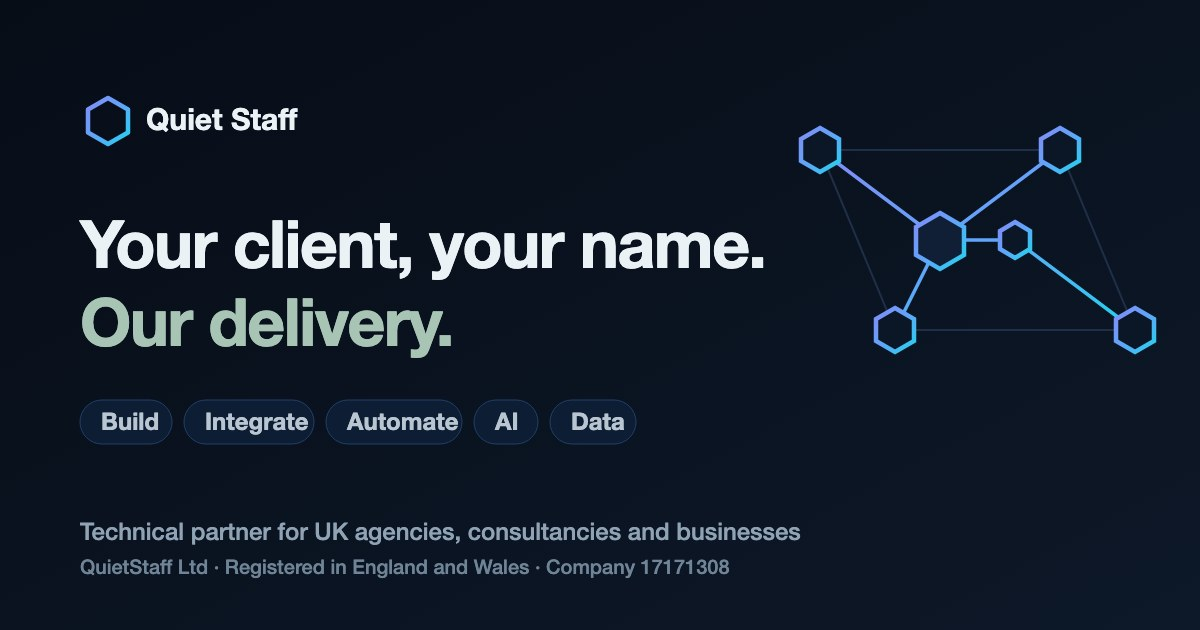
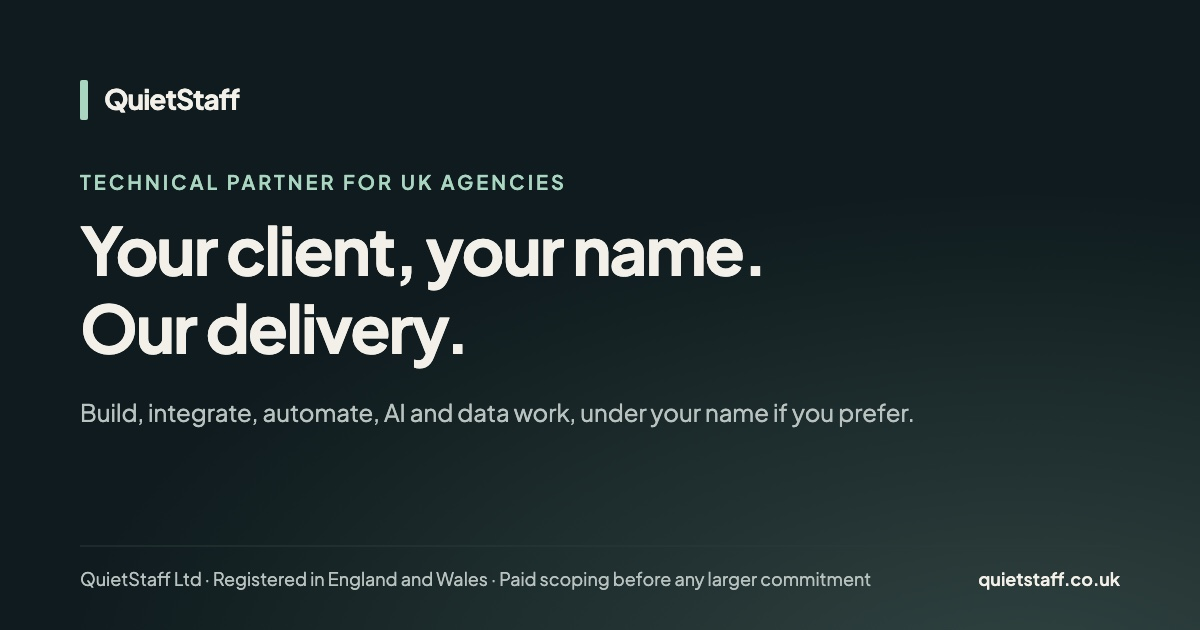
Partners: restyle, index the page, add #refer (M5MB-216)
Page-only nav kept with a QuietStaff home link; hero eyebrow leads with the UK
registration; Meet Mohan block uses the approved Founder & CEO form; India line, honesty
line and the legal block are unchanged. Adds the #refer paragraph (referral fee agreed in
writing), removes noindex, new title/description/JSON-LD Service and OG card.

diff --git a/partners/delivery/index.html b/partners/delivery/index.html
@@ -1,11 +1,11 @@
-<!doctype html><html lang="en-GB" data-theme="dark"><head><meta charset="utf-8"><meta name="viewport" content="width=device-width,initial-scale=1"><meta name="color-scheme" content="light dark"><title>Technical partner for UK agencies and consultancies | Quiet Staff</title><meta name="description" content="Build, integrate, automate, AI and data work on demand for UK agencies, consultancies and businesses, under your name if you prefer. QuietStaff Ltd, registered in England and Wales. Paid scoping first."><link rel="canonical" href="https://quietstaff.co.uk/partners/delivery/"><meta property="og:type" content="website"><meta property="og:title" content="Technical partner for UK agencies and consultancies | Quiet Staff"><meta property="og:description" content="Build, integrate, automate, AI and data work on demand for UK agencies, consultancies and businesses, under your name if you prefer. Paid scoping first."><meta property="og:url" content="https://quietstaff.co.uk/partners/delivery/"><meta property="og:image" content="https://quietstaff.co.uk/assets/images/quietstaff-partners-social.jpg"><meta property="og:image:width" content="1200"><meta property="og:image:height" content="630"><meta property="og:image:alt" content="Quiet Staff — Your client, your name. Our delivery. Technical partner for UK agencies, consultancies and businesses."><meta name="twitter:card" content="summary_large_image"><meta name="twitter:image" content="https://quietstaff.co.uk/assets/images/quietstaff-partners-social.jpg"><meta name="twitter:image:alt" content="Quiet Staff — Your client, your name. Our delivery. Technical partner for UK agencies, consultancies and businesses."><script type="application/ld+json">{"@context":"https://schema.org","@graph":[{"@type":"Organization","@id":"https://quietstaff.co.uk/#organization","name":"QuietStaff Ltd","alternateName":"Quiet Staff","url":"https://quietstaff.co.uk","logo":"https://quietstaff.co.uk/brand/logo-package/svg/quietstaff-favicon.svg","email":"contact@quietstaff.com"},{"@type":"WebSite","@id":"https://quietstaff.co.uk/#website","url":"https://quietstaff.co.uk","name":"Quiet Staff","publisher":{"@id":"https://quietstaff.co.uk/#organization"},"inLanguage":"en-GB"}]}</script><link rel="icon" href="/brand/logo-package/svg/quietstaff-favicon.svg" type="image/svg+xml"><link rel="preload" href="/assets/fonts/inter-400-latin.woff2" as="font" type="font/woff2" crossorigin><script>(()=>{let t;try{t=localStorage.getItem('quietstaff-theme')}catch{}const q=new URLSearchParams(location.search).get('theme');if(q==='light'||q==='dark')t=q;if(t!=='light'&&t!=='dark')t='dark';document.documentElement.dataset.theme=t;document.documentElement.classList.add('js')})()</script><link rel="stylesheet" href="/assets/css/fonts.css"><link rel="stylesheet" href="/assets/css/one.css?v=20260930-01"><link rel="stylesheet" href="/assets/css/motion.css?v=20260921-02"><script src="/assets/js/one.js?v=20260921-02" defer></script><script src="/assets/js/motion.js?v=20260921-02" defer></script><meta name="robots" content="noindex, follow"><link rel="stylesheet" href="/assets/css/consulting.css?v=20260930-01"><link rel="stylesheet" href="/assets/css/partners.css?v=20261019-02"></head><body class=""><a class="skip-link" href="#main">Skip to content</a><header class="site-header"><div class="shell header-inner"><a class="brand" href="/" aria-label="Quiet Staff home"><img src="/brand/logo-package/svg/quietstaff-favicon.svg" alt="" width="46" height="46"><span>Quiet Staff</span></a><nav class="main-nav" id="main-nav" aria-label="Primary"><a href="#deliver">What we take on</a><a href="#how-we-work">How we work</a><a href="#handover">Hand over work</a><a href="#partner-questions">Questions</a><a class="nav-contact" href="#partner-contact">Let’s talk <span aria-hidden="true">↗</span></a></nav><div class="header-controls"><button class="theme-toggle" type="button" aria-label="Switch colour theme" title="Switch colour theme"><svg aria-hidden="true" viewBox="0 0 24 24" fill="none" stroke="currentColor" stroke-width="1.5"><circle cx="12" cy="12" r="8"/><path d="M12 4a8 8 0 0 1 0 16Z" fill="currentColor"/></svg></button><button class="menu-toggle" type="button" aria-expanded="false" aria-controls="main-nav">Menu <span aria-hidden="true">＋</span></button></div></div></header><main id="main" class="consulting-page partners-page">
-<section class="consulting-hero shell"><div><p class="eyebrow">Quiet Staff / Technical partner</p><h1>Your client, your name.<br><em>Our delivery.</em></h1><p class="lead">Quiet Staff is the technical partner UK agencies, consultancies and businesses call when a client or a project needs something built, connected or automated. Under your name if you prefer: you keep the client and the relationship. We start with a small, paid scoping piece, so you can judge the work before committing to more.</p><div class="consulting-actions"><a class="button" href="#partner-contact">Discuss a client project <span aria-hidden="true">↗</span></a><a class="text-link" href="#how-we-work">See how we work together <span aria-hidden="true">↓</span></a></div><p class="consulting-caption">For agencies, consultancies, software studios, fractional-CTO practices and businesses without a technical team of their own.</p></div><aside class="consulting-map" aria-label="How a partner engagement runs"><div class="map-heading"><span class="eyebrow">From your client to delivery</span><span aria-hidden="true">✳</span></div><p class="map-question">“Our client needs something<br>we can’t build.”</p><ol><li><span>01</span><div><strong>You send the outline</strong><small>Problem · data · timing</small></div></li><li><span>02</span><div><strong>Paid scoping</strong><small>A few days · fixed scope</small></div></li><li><span>03</span><div><strong>Milestone pilot</strong><small>Under your name or co-branded</small></div></li></ol><p class="map-note">You keep the client.<br>We do the build.</p></aside></section>
+<!doctype html><html lang="en-GB" data-theme="dark"><head><meta charset="utf-8"><meta name="viewport" content="width=device-width,initial-scale=1"><meta name="color-scheme" content="light dark"><title>Technical partner for UK agencies | QuietStaff</title><meta name="description" content="Build, integrate, automate, AI and data work for UK agencies and consultancies, under your name if you prefer. QuietStaff Ltd, registered in England and Wales."><link rel="canonical" href="https://quietstaff.co.uk/partners/delivery/"><meta property="og:type" content="website"><meta property="og:title" content="Technical partner for UK agencies | QuietStaff"><meta property="og:description" content="Build, integrate, automate, AI and data work for UK agencies and consultancies, under your name if you prefer. QuietStaff Ltd, registered in England and Wales."><meta property="og:url" content="https://quietstaff.co.uk/partners/delivery/"><meta property="og:image" content="https://quietstaff.co.uk/assets/images/quietstaff-partners-social.jpg"><meta property="og:image:width" content="1200"><meta property="og:image:height" content="630"><meta property="og:image:alt" content="QuietStaff: your client, your name, our delivery. Technical partner for UK agencies and consultancies."><meta name="twitter:card" content="summary_large_image"><meta name="twitter:image" content="https://quietstaff.co.uk/assets/images/quietstaff-partners-social.jpg"><meta name="twitter:image:alt" content="QuietStaff: your client, your name, our delivery. Technical partner for UK agencies and consultancies."><script type="application/ld+json">{"@context":"https://schema.org","@graph":[{"@type":"Organization","@id":"https://quietstaff.co.uk/#organization","name":"QuietStaff Ltd","alternateName":"QuietStaff","url":"https://quietstaff.co.uk","logo":"https://quietstaff.co.uk/brand/logo-package/svg/quietstaff-favicon.svg","email":"contact@quietstaff.com","address":{"@type":"PostalAddress","streetAddress":"66 Paul Street","addressLocality":"London","postalCode":"EC2A 4NE","addressCountry":"GB"},"identifier":{"@type":"PropertyValue","propertyID":"Companies House","value":"17171308"}},{"@type":"WebSite","@id":"https://quietstaff.co.uk/#website","url":"https://quietstaff.co.uk","name":"QuietStaff","publisher":{"@id":"https://quietstaff.co.uk/#organization"},"inLanguage":"en-GB"},{"@type":"WebPage","@id":"https://quietstaff.co.uk/partners/delivery/#webpage","url":"https://quietstaff.co.uk/partners/delivery/","name":"Technical partner for UK agencies | QuietStaff","description":"Build, integrate, automate, AI and data work for UK agencies and consultancies, under your name if you prefer. QuietStaff Ltd, registered in England and Wales.","isPartOf":{"@id":"https://quietstaff.co.uk/#website"},"inLanguage":"en-GB"},{"@type":"Service","@id":"https://quietstaff.co.uk/partners/delivery/#service","name":"Technical delivery partner (under your name)","serviceType":"Software development and integration for agencies and consultancies","description":"Build, integrate, automate, AI and data work for UK agencies and consultancies, delivered under the partner's name if preferred. Paid scoping first.","url":"https://quietstaff.co.uk/partners/delivery/","provider":{"@id":"https://quietstaff.co.uk/#organization"},"areaServed":"GB","audience":{"@type":"BusinessAudience","audienceType":"UK agencies, consultancies and software studios"}}]}</script><link rel="icon" href="/brand/logo-package/svg/quietstaff-favicon.svg" type="image/svg+xml"><link rel="preload" href="/assets/fonts/plus-jakarta-sans-700-latin.woff2" as="font" type="font/woff2" crossorigin><script>(()=>{let t;try{t=localStorage.getItem('quietstaff-theme')}catch{}const q=new URLSearchParams(location.search).get('theme');if(q==='light'||q==='dark')t=q;if(t!=='light'&&t!=='dark')t='dark';document.documentElement.dataset.theme=t;document.documentElement.classList.add('js')})()</script><link rel="stylesheet" href="/assets/css/fonts.css?v=20261101-02"><link rel="stylesheet" href="/assets/css/one.css?v=20261101-02"><link rel="stylesheet" href="/assets/css/motion.css?v=20260921-02"><script src="/assets/js/one.js?v=20261101-02" defer></script><script src="/assets/js/motion.js?v=20260921-02" defer></script><link rel="stylesheet" href="/assets/css/consulting.css?v=20261101-02"><link rel="stylesheet" href="/assets/css/partners.css?v=20261101-02"></head><body class=""><a class="skip-link" href="#main">Skip to content</a><header class="site-header"><div class="shell header-inner"><a class="brand" href="/" aria-label="QuietStaff home"><img src="/brand/logo-package/svg/quietstaff-favicon.svg" alt="" width="34" height="34"><span>QuietStaff</span></a><nav class="main-nav" id="main-nav" aria-label="Primary"><a href="/">QuietStaff home</a><a href="#deliver">What we take on</a><a href="#how-we-work">How we work</a><a href="#handover">Hand over work</a><a href="#partner-questions">Questions</a></nav><div class="header-controls"><a class="nav-contact" href="#partner-contact"><span class="nav-contact-full">Discuss a client project</span><span class="nav-contact-short">Discuss a project</span><span aria-hidden="true">↗</span></a><button class="theme-toggle" type="button" aria-label="Switch colour theme" title="Switch colour theme"><svg aria-hidden="true" viewBox="0 0 24 24" fill="none" stroke="currentColor" stroke-width="1.5"><circle cx="12" cy="12" r="8"/><path d="M12 4a8 8 0 0 1 0 16Z" fill="currentColor"/></svg></button><button class="menu-toggle" type="button" aria-expanded="false" aria-controls="main-nav">Menu <span aria-hidden="true">＋</span></button></div></div></header><main id="main" class="consulting-page partners-page">
+<section class="consulting-hero shell"><div><p class="eyebrow">QuietStaff Ltd · Registered in England and Wales · Technical partner</p><h1>Your client, your name.<br><em>Our delivery.</em></h1><p class="lead">Quiet Staff is the technical partner UK agencies, consultancies and businesses call when a client or a project needs something built, connected or automated. Under your name if you prefer: you keep the client and the relationship. We start with a small, paid scoping piece, so you can judge the work before committing to more.</p><div class="consulting-actions"><a class="button" href="#partner-contact">Discuss a client project <span aria-hidden="true">↗</span></a><a class="text-link" href="#how-we-work">See how we work together <span aria-hidden="true">↓</span></a></div><p class="consulting-caption">For agencies, consultancies, software studios, fractional-CTO practices and businesses without a technical team of their own.</p></div><aside class="consulting-map" aria-label="How a partner engagement runs"><div class="map-heading"><span class="eyebrow">From your client to delivery</span><span aria-hidden="true">✳</span></div><p class="map-question">“Our client needs something<br>we can’t build.”</p><ol><li><span>01</span><div><strong>You send the outline</strong><small>Problem · data · timing</small></div></li><li><span>02</span><div><strong>Paid scoping</strong><small>A few days · fixed scope</small></div></li><li><span>03</span><div><strong>Milestone pilot</strong><small>Under your name or co-branded</small></div></li></ol><p class="map-note">You keep the client.<br>We do the build.</p></aside></section>
 <div class="consulting-strip shell"><span>QuietStaff Ltd · registered in England and Wales · company 17171308</span><span>Can work in your repo, cloud and tooling</span><span>Paid scoping before any larger commitment</span></div>
 <div class="partner-programmes shell" aria-label="Partner programmes"><span class="partner-programmes-label">Partner programmes</span><ul><li><a href="/partners/openai/">QuietStaff is an OpenAI Select Partner</a></li><li>Claude Partner Network member</li><li>NVIDIA Inception member</li></ul></div>
 <section class="section shell" id="deliver"><div class="consulting-section-heading"><p class="section-label"><span>01</span>What we take on</p><h2>Build, integrate, automate,<br><em>AI and data.</em></h2></div><div class="consulting-services"><article><span class="note-number">01 / Build</span><h3>Web apps, client portals and internal tools</h3><p>Portals, booking and quoting tools, internal dashboards and first versions of new products, built to agreed milestones and handed over with operating notes.</p><div class="consulting-output"><span>Example first piece</span><p>One working screen or workflow, end to end, on agreed sample data.</p></div></article><article><span class="note-number">02 / Integrate</span><h3>Connecting the systems a client already uses</h3><p>CRM, finance, booking and data sources joined through their APIs, so records stop being typed in twice. Each connection is logged, so failures are visible and can be checked.</p><div class="consulting-output"><span>Example first piece</span><p>One integration between two named systems, with alerts when it fails.</p></div></article><article><span class="note-number">03 / Automate</span><h3>Manual steps taken out of everyday workflows</h3><p>Repeating work such as moving documents, chasing approvals or building reports, automated with a human check wherever a judgement is needed.</p><div class="consulting-output"><span>Example first piece</span><p>One workflow mapped and automated, with the manual time it replaces written down.</p></div></article><article><span class="note-number">04 / Warehouse AI</span><h3>AI apps over a data warehouse</h3><p>An assistant that answers approved business questions from the client’s own warehouse. Metrics are defined first, results are traceable, access is controlled and answers are tested against known figures.</p><div class="consulting-output"><span>Example first piece</span><p>A scoped pilot on one dataset and a short list of agreed questions.</p></div></article><article><span class="note-number">05 / Protected data</span><h3>PII redaction and validation on incoming data</h3><p>A boundary that detects and redacts personal data, validates what arrives and holds exceptions and uncertain matches for review before data moves on to the warehouse or an AI model. Redaction is tested on sample data and the acceptable error rate is agreed with you at scoping.</p><div class="consulting-output"><span>Example first piece</span><p>One incoming feed, with a working redaction and validation step.</p></div></article><article><span class="note-number">06 / Data engineering</span><h3>Data engineering and production readiness</h3><p>Pipelines, orchestration (Airflow) and warehouse ingestion, plus the work that takes an existing pipeline, RAG app or prototype to production: evaluation, monitoring, deployment and operating notes.</p><div class="consulting-output"><span>Example first piece</span><p>A production-readiness review of one existing build, with a prioritised fix list.</p></div></article></div></section>
 <section class="section shell consulting-engagement" id="how-we-work"><div class="consulting-section-heading"><p class="section-label"><span>02</span>How we work together</p><h2>Start small.<br><em>Grow on evidence.</em></h2></div><div class="consulting-steps"><article><span class="note-number">01 / Scope</span><h3>Paid scoping.</h3><p>A few days, fixed scope. We agree the problem, data access and what a pilot should prove.</p></article><article><span class="note-number">02 / Pilot</span><h3>Milestone pilot.</h3><p>Two to three weeks, paid per milestone. A working piece in the client’s environment for you to review.</p></article><article><span class="note-number">03 / Build</span><h3>Follow-on build and support.</h3><p>If the pilot earns it, we continue into a fuller build and agreed support.</p></article></div><div class="partner-options"><article><span class="note-number">Option A</span><h3>Under your name.</h3><p>We work as part of your team. The client sees your brand and your people in front. Our role as processor or sub-processor, and the delivery location, are disclosed to your client as your data protection contract requires.</p></article><article><span class="note-number">Option B</span><h3>Co-branded.</h3><p>We are introduced by name where that helps the client, and you still lead the relationship.</p></article></div><div class="partner-terms" id="partner-terms"><h3>Agreed before work starts</h3><ul><li><strong>You keep the client and the relationship.</strong> We work as your subcontractor; client interfaces and commercial terms are agreed with you before work starts.</li><li><strong>We do not approach your clients to offer them our services directly.</strong> The exact scope and period are set out in the agreement.</li><li><strong>Confidentiality first.</strong> We sign a mutual confidentiality agreement before you share client or project detail with us.</li><li><strong>Ownership.</strong> Bespoke deliverables pass to you or your client on payment, as agreed. We keep pre-existing tools and reusable components, licensed for use with the deliverables.</li><li><strong>Data protection.</strong> Personal data is handled under a DPA, with Quiet Staff as processor or sub-processor. Where India delivery involves a restricted transfer, the UK IDTA or Addendum applies.</li><li><strong>In writing.</strong> All of this is confirmed in a written agreement, signed before work starts.</li></ul><p class="consulting-caption">This page summarises how Quiet Staff (QuietStaff Ltd, company 17171308) usually works with delivery partners. It is not an offer or a contract, and it creates no obligation. Only a written agreement signed by both parties does, and that agreement governs.</p></div></section>
-<section class="section shell" id="handover"><div class="consulting-section-heading"><p class="section-label"><span>03</span>How to hand work over</p><h2>Send the outline.<br><em>We’ll reply with a proposal.</em></h2></div><ol class="partner-handover"><li><strong>The client problem</strong>In your words.</li><li><strong>The data and systems involved</strong>Sources, warehouse, cloud and tooling.</li><li><strong>What has been tried so far</strong>Including anything that did not work.</li><li><strong>The result and the timing</strong>What the client wants, and by when.</li><li><strong>Who owns the client relationship</strong>And who we would speak to day to day.</li><li><strong>Delivery and data access</strong>Whether India-based delivery and the access needed are acceptable.</li></ol><p class="partner-next">A short outline is enough. We reply with a proposal for the paid scoping, for you to review. If it isn’t a fit, we’ll say so plainly.</p></section>
-<section class="shell consulting-founder"><img src="/assets/images/founder-800.webp" alt="Mohan Raj Dhanapal, founder of Quiet Staff" width="800" height="1000" loading="lazy"><div><p class="eyebrow">Your delivery lead</p><h2>Meet Mohan.<br><em>He leads the work.</em></h2><p>Mohan Raj Dhanapal is Quiet Staff’s Founder &amp; Principal AI Architect, with 21 years in technology delivery. His experience covers:</p><ul class="partner-skills"><li><strong>Data platforms and orchestration</strong> for overnight processing at volume.</li><li><strong>Protected data ingestion:</strong> PII redaction, validation and holding data for review.</li><li><strong>Multi-source pipelines</strong> into a data warehouse.</li><li><strong>An AI engine</strong> that answers business questions from a warehouse in defined analytical formats.</li></ul><p>Delivery is from India. We work UK business hours. Mohan leads the technical work directly, with a delivery team sized to the engagement. Quiet Staff is a Claude Partner Network member.</p><p>Quiet Staff is new, and we have no UK client list to show you yet. That is why we start with a small, paid piece you can judge for yourself.</p><a class="text-link" href="/founder/">More about Mohan <span aria-hidden="true">↗</span></a></div></section>
+<section class="section shell" id="handover"><div class="consulting-section-heading"><p class="section-label"><span>03</span>How to hand work over</p><h2>Send the outline.<br><em>We’ll reply with a proposal.</em></h2></div><ol class="partner-handover"><li><strong>The client problem</strong>In your words.</li><li><strong>The data and systems involved</strong>Sources, warehouse, cloud and tooling.</li><li><strong>What has been tried so far</strong>Including anything that did not work.</li><li><strong>The result and the timing</strong>What the client wants, and by when.</li><li><strong>Who owns the client relationship</strong>And who we would speak to day to day.</li><li><strong>Delivery and data access</strong>Whether India-based delivery and the access needed are acceptable.</li></ol><p class="partner-next">A short outline is enough. We reply with a proposal for the paid scoping, for you to review. If it isn’t a fit, we’ll say so plainly.</p><p class="partner-refer" id="refer"><strong>Prefer to refer a client rather than run the project?</strong> Introduce us, and QuietStaff handles the engagement directly with the client. A referral fee is agreed with you in writing before any introduction is made.</p></section>
+<section class="shell consulting-founder"><img src="/assets/images/founder-800.webp" alt="Mohan Raj Dhanapal, Founder and CEO of QuietStaff" width="800" height="993" loading="lazy"><div><p class="eyebrow">Your delivery lead</p><h2>Meet Mohan.<br><em>He leads the work.</em></h2><p>Mohan Raj Dhanapal is QuietStaff’s Founder &amp; CEO, with 21 years in technology, operations and delivery. He architects and codes every build. His experience covers:</p><ul class="partner-skills"><li><strong>Data platforms and orchestration</strong> for overnight processing at volume.</li><li><strong>Protected data ingestion:</strong> PII redaction, validation and holding data for review.</li><li><strong>Multi-source pipelines</strong> into a data warehouse.</li><li><strong>An AI engine</strong> that answers business questions from a warehouse in defined analytical formats.</li></ul><p>Delivery is from India. We work UK business hours. Mohan leads the technical work directly, with a delivery team sized to the engagement. Quiet Staff is a Claude Partner Network member.</p><p>Quiet Staff is new, and we have no UK client list to show you yet. That is why we start with a small, paid piece you can judge for yourself.</p><a class="text-link" href="/founder/">More about Mohan <span aria-hidden="true">↗</span></a></div></section>
 <section class="faq shell section" id="partner-questions"><div><p class="section-label"><span>04</span>Partner questions</p><h2>Before you <br><em>hand anything over.</em></h2></div><div class="faq-list"><details id="partner-question-1"><summary>Where does the data sit, and does India-based delivery matter?<span aria-hidden="true">＋</span></summary><p>Delivery is from India. We work UK business hours. Where possible we work inside your repo, cloud accounts and tooling, so access stays under your control. A data processing agreement is available.</p></details><details id="partner-question-2"><summary>Who talks to the client?<span aria-hidden="true">＋</span></summary><p>You decide. Under your name, you lead the client relationship and we work in the background, with our role disclosed as your data protection contract requires. Co-branded, we can join client calls. Either way, you own the relationship.</p></details><details id="partner-question-3"><summary>Who owns the IP?<span aria-hidden="true">＋</span></summary><p>Client interfaces, commercial terms, project IP and reusable components are agreed in writing before work starts. The partner terms above summarise the usual position; the signed agreement governs.</p></details><details id="partner-question-4"><summary>What size of work do you take on?<span aria-hidden="true">＋</span></summary><p>Bounded pieces first: scoping, then a pilot of two to three weeks. Larger builds follow only if the pilot earns them.</p></details><details id="partner-question-5"><summary>Do you compete with us?<span aria-hidden="true">＋</span></summary><p>We build for you, not around you. What we agree on approaching your clients, and for how long, is set out in the written agreement.</p></details></div></section>
 <section class="contact section shell" id="partner-contact"><div class="contact-intro"><p class="section-label"><span>05</span>Let’s talk about the client</p><h2>Tell us about<br>the client. <br><em>We’ll shape the next step.</em></h2><p>A short outline is enough. We will reply with a proposal for the paid scoping.</p><p class="contact-note">Prefer email?</p><a class="text-link" href="mailto:contact@quietstaff.com?subject=Delivery%20partner%20enquiry">contact@quietstaff.com <span aria-hidden="true">↗</span></a></div><div class="contact-form-wrap"><p class="preview-note" hidden>Local preview · This form is a simulation. No email will be sent.</p><form id="contact-form" action="#partner-contact" method="get"><div class="form-row"><label>Your name <span>(required)</span><input name="name" autocomplete="name" required maxlength="200"></label><label>Work email <span>(required)</span><input name="email" type="email" autocomplete="email" required maxlength="254"></label></div><label>Firm name <span>(optional)</span><input name="company" autocomplete="organization" maxlength="200"></label><input type="hidden" name="subject" value="Delivery partner enquiry"><label>Message <span>(required)</span><textarea name="message" rows="5" required maxlength="5000" placeholder="The client problem, the data and systems involved, the result they want and the timing."></textarea></label><div class="honey" aria-hidden="true"><label>Leave this field empty<input name="website" tabindex="-1" autocomplete="off"></label></div><p class="form-privacy">Please leave out passwords and confidential client data. We use your details only to reply. <a href="/privacy/">Read our privacy policy.</a></p><button class="button" type="submit" disabled>Send the outline <span aria-hidden="true">↗</span></button><p id="form-status" class="form-status" role="status" aria-live="polite" tabindex="-1"></p><noscript><p>Please <a href="mailto:contact@quietstaff.com?subject=Delivery%20partner%20enquiry">email contact@quietstaff.com</a>. The form needs JavaScript to send.</p></noscript></form></div></section>
-</main><footer class="site-footer"><div class="shell"><div class="footer-top"><a class="brand" href="/"><img src="/brand/logo-package/svg/quietstaff-favicon.svg" width="46" height="46" alt=""><span>Quiet Staff</span></a><p>Technical delivery for UK agencies, consultancies and businesses.</p><a href="mailto:contact@quietstaff.com">contact@quietstaff.com <span aria-hidden="true">↗</span></a></div><div class="footer-links"><a href="/#services">Quiet Staff One</a><a href="/labs/">Quiet Staff Labs</a><a href="/quietdesk/">QuietDesk</a><a href="/consulting/">AI consulting</a><a href="/partners/delivery/">Technical partner</a><a href="/founder/">Founder</a><a href="/case-studies/">Workflow ideas</a><a href="/quietstart/">QuietStart</a><a href="/faq/">FAQs</a><a href="/partners/openai/">OpenAI Select Partner</a><a href="https://wa.me/447367108005" target="_blank" rel="noopener">WhatsApp <span aria-hidden="true">↗</span></a></div><div class="footer-bottom"><p>© 2026 QuietStaff Ltd. Registered in England &amp; Wales, company no. 17171308.<br>66 Paul Street, London EC2A 4NE · ICO registration ZC130484</p><div><a href="/privacy/">Privacy</a><a href="/sub-processors/">Sub-processors</a><a href="/terms/">Terms</a><a href="/dpa/">DPA</a></div></div></div></footer></body></html>
+</main><footer class="site-footer"><div class="shell"><div class="footer-top"><a class="brand" href="/"><img src="/brand/logo-package/svg/quietstaff-favicon.svg" width="34" height="34" alt=""><span>QuietStaff</span></a><p>Technical leadership and practical AI, delivered end to end.</p></div><div class="footer-links"><div><p class="footer-heading">Work with Mohan</p><a href="/consulting/">Fractional CTO and consulting</a><a href="/consulting/#gcc">India delivery</a><a href="/partners/delivery/">Technical partner</a><a href="https://cal.com/quietstaff/intro" target="_blank" rel="noopener">Book a free 20-minute call <span aria-hidden="true">↗</span></a></div><div><p class="footer-heading">Small business</p><a href="/quietdesk/">QuietDesk</a><a href="/#small-business">Quiet Staff One</a><a href="/quietstart/">QuietStart</a><a href="/case-studies/">Workflow ideas</a><a href="/faq/">FAQs</a></div><div><p class="footer-heading">Company</p><a href="/founder/">About Mohan</a><a href="/labs/">Quiet Staff Labs</a><a href="/partners/openai/">OpenAI Select Partner</a><a href="mailto:contact@quietstaff.com">contact@quietstaff.com</a><a href="https://wa.me/447367108005" target="_blank" rel="noopener">WhatsApp <span aria-hidden="true">↗</span></a></div></div><div class="footer-bottom"><p>© 2026 QuietStaff Ltd. Registered in England &amp; Wales, company no. 17171308.<br>66 Paul Street, London EC2A 4NE · ICO registration ZC130484</p><div><a href="/privacy/">Privacy</a><a href="/sub-processors/">Sub-processors</a><a href="/terms/">Terms</a><a href="/dpa/">DPA</a></div></div></div></footer></body></html>
